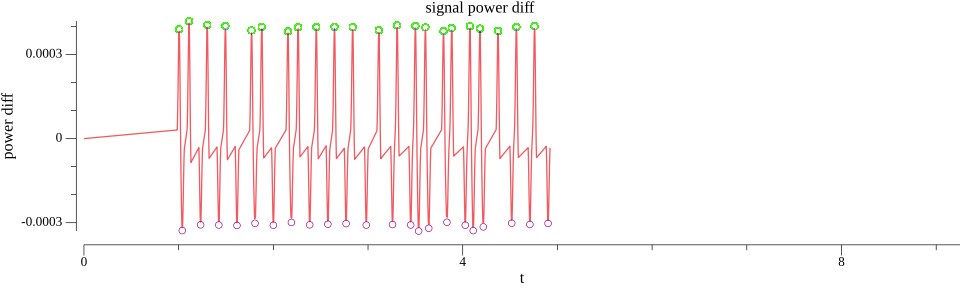
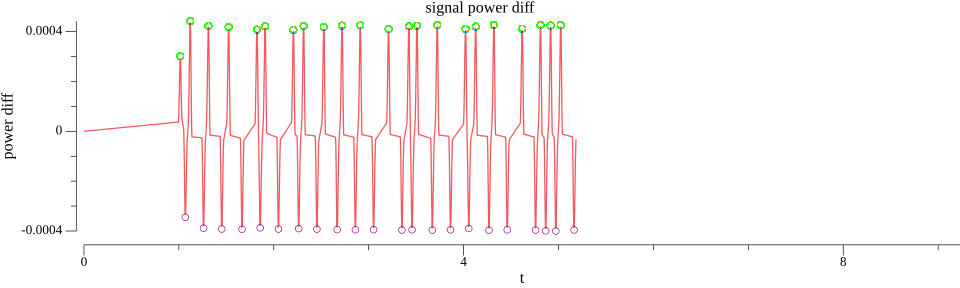
k-means

diff --git a/decoder.go b/decoder.go
@@ -18,25 +18,31 @@ OUT OF OR IN CONNECTION WITH THE SOFTWARE OR THE USE OR OTHER DEALINGS IN THE
 SOFTWARE.
 */
 
+/*
+This software includes the work that is distributed in the Apache License 2.0.
+"github.com/mash/gokmeans"
+*/
+
 package main
 
 import (
-       "bufio"
-	_ "embed"
-	"strings"
-	"fmt"
-	"github.com/mjibson/go-dsp/spectral"
+	"bufio"
 	"bytes"
+	_ "embed"
 	"encoding/binary"
+	"fmt"
 	"github.com/gen2brain/malgo"
+	"github.com/mash/gokmeans"
+	"github.com/mjibson/go-dsp/spectral"
 	"github.com/thoas/go-funk"
-	"image/color"
 	"gonum.org/v1/plot"
 	"gonum.org/v1/plot/plotter"
 	"gonum.org/v1/plot/plotutil"
 	"gonum.org/v1/plot/vg"
+	"image/color"
 	"math"
 	"os"
+	"strings"
 	"time"
 )
 
@@ -47,7 +53,7 @@ type XY struct {
 }
 
 type Peak_XY struct {
-     X, Y int
+	X, Y int
 }
 
 //go:embed cwtable.dat
@@ -57,7 +63,74 @@ var cwtable = make(map[string]string)
 
 var samplingrate = 44100
 
-func Decode(signal []Peak_XY, interval float64) string {
+func Decode(signal []Peak_XY) string {
+	length_on_kmnode := make([]gokmeans.Node, 0)
+
+	//ピークはアルゴリズム的に極大スタート, 極大と極小は交互にくる, よって偶数番目にon（音あり）/奇数番目にoff（音無）が入る
+	length_onoff := make([]float64, len(signal)-1)
+	for i := 0; i < len(signal)-1; i++ {
+		length := float64(signal[i+1].X - signal[i].X)
+		length_onoff[i] = length
+
+		//signalが1→-1になるのがonの状態なので,signal.Yが-1のときon　そのときを抽出してk-meansのノードを作る
+		if signal[i+1].Y == -1 {
+			length_on_kmnode = append(length_on_kmnode, gokmeans.Node{length})
+		}
+	}
+
+	var interval float64
+	var long_index int
+	var short_index int
+
+	if success, centroids := gokmeans.Train(length_on_kmnode, 2, 50); success {
+		fmt.Println("k-means")
+		switch {
+		case centroids[1][0] > centroids[0][0]:
+			long_index = 1
+			short_index = 0
+			interval = centroids[0][0]
+		case centroids[1][0] < centroids[0][0]:
+			long_index = 0
+			short_index = 1
+			interval = centroids[1][0]
+		}
+
+		signalarr := ""
+		node_cnt := 0
+
+		for i := 0; i < len(signal)-1; i++ {
+			//音ありの時
+			if signal[i+1].Y == -1 {
+				switch gokmeans.Nearest(length_on_kmnode[node_cnt], centroids) {
+				case long_index:
+					signalarr += "_"
+					fmt.Print("_")
+				case short_index:
+					signalarr += "."
+					fmt.Print(".")
+				}
+				node_cnt += 1
+			} else {
+				//音無の時
+				span := int(math.Round(length_onoff[i] / interval))
+				if span == 3 {
+					fmt.Print(" ")
+					signalarr += " "
+				} else if span > 3 {
+					fmt.Println()
+					signalarr += " ; "
+				}
+			}
+		}
+		fmt.Println()
+		return signalarr
+	} else {
+		interval = funk.MaxFloat64(length_onoff)
+		return Decode_normal(signal, interval)
+	}
+}
+
+func Decode_normal(signal []Peak_XY, interval float64) string {
 	prev_up := 0
 	prev_dn := 0
 	signalarr := ""
@@ -90,7 +163,7 @@ func Decode(signal []Peak_XY, interval float64) string {
 }
 
 func morsedecode(signalarr string) string {
-     	reader := strings.NewReader(morse)
+	reader := strings.NewReader(morse)
 	stream := bufio.NewScanner(reader)
 	for stream.Scan() {
 		val := stream.Text()
@@ -98,7 +171,7 @@ func morsedecode(signalarr string) string {
 	}
 	cwtable[";"] = " "
 	cwtable[""] = " "
-	
+
 	cwarr := strings.Split(signalarr, " ")
 	cwstrarr := ""
 
@@ -127,61 +200,53 @@ func PeakValue(source []float64) float64 {
 	return peak
 }
 
-func DetectPeak(threshold float64, y []float64)(result []Peak_XY, interval int){
-     peak_value := PeakValue(y)
-     fmt.Println(peak_value)
-     delta := peak_value * threshold
-     
-     mn := float64(10000)
-     mx := float64(-10000)
-     var mnpos int
-     var mxpos int
-     result = make([]Peak_XY, 0)
-     var buf Peak_XY
+func DetectPeak(threshold float64, y []float64) (result []Peak_XY) {
+	peak_value := PeakValue(y)
+	fmt.Println(peak_value)
+	delta := peak_value * threshold
 
-     lookformax := true
+	mn := float64(10000)
+	mx := float64(-10000)
+	var mnpos int
+	var mxpos int
+	result = make([]Peak_XY, 0)
+	var buf Peak_XY
 
-     for i, this := range(y) {
-     	 if this > mx {
-	    mx = this
-	    mxpos = i
-	 }
-	 
-	 if this < mn {
-	    mn = this
-	    mnpos = i
-	 }
+	lookformax := true
 
-	 if lookformax {
-	    if this < mx - delta {
-	       buf.X = mxpos
-	       buf.Y = 1
-	       result = append(result, buf)
-	       mn = this
-	       mnpos = i
-	       lookformax = false
-	    }
-	  } else {
-	    if this > mn + delta {
-	       buf.X = mnpos
-	       buf.Y = -1
-	       result = append(result, buf)
-	       mx = this
-	       mxpos = i
-	       lookformax = true
-	    }
-	  }
+	for i, this := range y {
+		if this > mx {
+			mx = this
+			mxpos = i
+		}
+
+		if this < mn {
+			mn = this
+			mnpos = i
+		}
+
+		if lookformax {
+			if this < mx-delta {
+				buf.X = mxpos
+				buf.Y = 1
+				result = append(result, buf)
+				mn = this
+				mnpos = i
+				lookformax = false
+			}
+		} else {
+			if this > mn+delta {
+				buf.X = mnpos
+				buf.Y = -1
+				result = append(result, buf)
+				mx = this
+				mxpos = i
+				lookformax = true
+			}
+		}
 	}
 
-	interval = len(y)
-	count_start := 0
-	for _, val := range(result) {
-	    if val.X - count_start < interval {
-		interval = val.X - count_start
-	    }
-	    count_start = val.X
-	}
-	return 
+	return
 }
 
 func OneStepDiff(source []float64) (result []float64) {
@@ -239,7 +304,7 @@ func PeakFreq(signal []float64, sampling_freq uint32) float64 {
 	return peakFreq
 }
 
-func record() []int32{
+func record() []int32 {
 	ctx, err := malgo.InitContext(nil, malgo.ContextConfig{}, func(message string) {
 		fmt.Printf("LOG <%v>\n", message)
 	})
@@ -300,10 +365,9 @@ func record() []int32{
 	Signalint := make([]int32, len(pCapturedSamples)/4)
 	buffer := bytes.NewReader(pCapturedSamples)
 	binary.Read(buffer, binary.LittleEndian, &Signalint)
-	
+
 	return Signalint
 }
-
 
 func main() {
 	SoundData := record()
@@ -312,20 +376,20 @@ func main() {
 
 	Signal64 := make([]float64, len_sound)
 	SquaredSignal64 := make([]float64, len_sound)
-	norm := float64(1.0)/float64(funk.MaxInt32(SoundData))
+	norm := float64(1.0) / float64(funk.MaxInt32(SoundData))
 	for i, val := range SoundData {
-		Signal64[i] = float64(val) *  norm
+		Signal64[i] = float64(val) * norm
 		SquaredSignal64[i] = float64(val) * float64(val) * norm * norm
 	}
 
-	ave_num :=  6 * int(float64(rate_sound)/PeakFreq(Signal64, rate_sound))
+	ave_num := 6 * int(float64(rate_sound)/PeakFreq(Signal64, rate_sound))
 	cut_freq := 0.443 * float64(rate_sound) / math.Sqrt(float64(ave_num)*float64(ave_num)-1)
 	fmt.Println("tone freq", PeakFreq(Signal64, rate_sound))
 	fmt.Println("cut_off", cut_freq)
 
 	smoothed := LPF(LPF(LPF(LPF(SquaredSignal64, ave_num), ave_num), ave_num), ave_num)
 	diff := OneStepDiff(smoothed)
-	edge, interval := DetectPeak(float64(0.5), diff)
+	edge := DetectPeak(float64(0.5), diff)
 
 	pts := make(plotter.XYs, len(smoothed))
 	pts_diff := make(plotter.XYs, len(diff))
@@ -342,29 +406,29 @@ func main() {
 
 	//ここからはピークの塗り潰し
 	cnt := 0
-	for _, val := range(edge) {
-	    if val.Y == 1 {
-	       cnt += 1
-	    }
+	for _, val := range edge {
+		if val.Y == 1 {
+			cnt += 1
+		}
 	}
-	
-	pts_peak_diff_min := make(plotter.XYs, len(edge) - cnt)
+
+	pts_peak_diff_min := make(plotter.XYs, len(edge)-cnt)
 	pts_peak_diff_max := make(plotter.XYs, cnt)
-	pts_peak_min := make(plotter.XYs, len(edge) - cnt)
+	pts_peak_min := make(plotter.XYs, len(edge)-cnt)
 	pts_peak_max := make(plotter.XYs, cnt)
-	
+
 	cnt1 := 0
 	cnt2 := 0
-	for _, val := range(edge) {
-	    if val.Y == 1 {
-	       pts_peak_diff_max[cnt1] = pts_diff[val.X]
-	       pts_peak_max[cnt1] = pts[val.X]
-	       cnt1 += 1
-	    } else {
-	       pts_peak_diff_min[cnt2] = pts_diff[val.X]
-	       pts_peak_min[cnt2] = pts[val.X]
-	       cnt2 += 1
-	    }
+	for _, val := range edge {
+		if val.Y == 1 {
+			pts_peak_diff_max[cnt1] = pts_diff[val.X]
+			pts_peak_max[cnt1] = pts[val.X]
+			cnt1 += 1
+		} else {
+			pts_peak_diff_min[cnt2] = pts_diff[val.X]
+			pts_peak_min[cnt2] = pts[val.X]
+			cnt2 += 1
+		}
 	}
 
 	p := plot.New()
@@ -374,9 +438,9 @@ func main() {
 	p.Y.Label.Text = "power"
 
 	plotutil.AddLines(p, pts)
-	p1, _  := plotter.NewScatter(pts_peak_max)
+	p1, _ := plotter.NewScatter(pts_peak_max)
 	p1.GlyphStyle.Color = color.RGBA{R: 255, B: 128, A: 55} // 緑
-	p2, _  := plotter.NewScatter(pts_peak_min)
+	p2, _ := plotter.NewScatter(pts_peak_min)
 	p2.GlyphStyle.Color = color.RGBA{R: 155, B: 128, A: 255} // 紫
 	p.Add(p1)
 	p.Add(p2)
@@ -389,14 +453,14 @@ func main() {
 	p.Y.Label.Text = "power diff"
 
 	plotutil.AddLines(p, pts_diff)
-	p1, _  = plotter.NewScatter(pts_peak_diff_max)
+	p1, _ = plotter.NewScatter(pts_peak_diff_max)
 	p1.GlyphStyle.Color = color.RGBA{R: 255, B: 128, A: 55} // 緑
-	p2, _  = plotter.NewScatter(pts_peak_diff_min)
+	p2, _ = plotter.NewScatter(pts_peak_diff_min)
 	p2.GlyphStyle.Color = color.RGBA{R: 155, B: 128, A: 255} // 紫
 	p.Add(p1)
 	p.Add(p2)
 	p.Save(10*vg.Inch, 3*vg.Inch, "diff.png")
 
-	signalarr := Decode(edge, float64(interval))
+	signalarr := Decode(edge)
 	fmt.Println(morsedecode(signalarr))
 }
